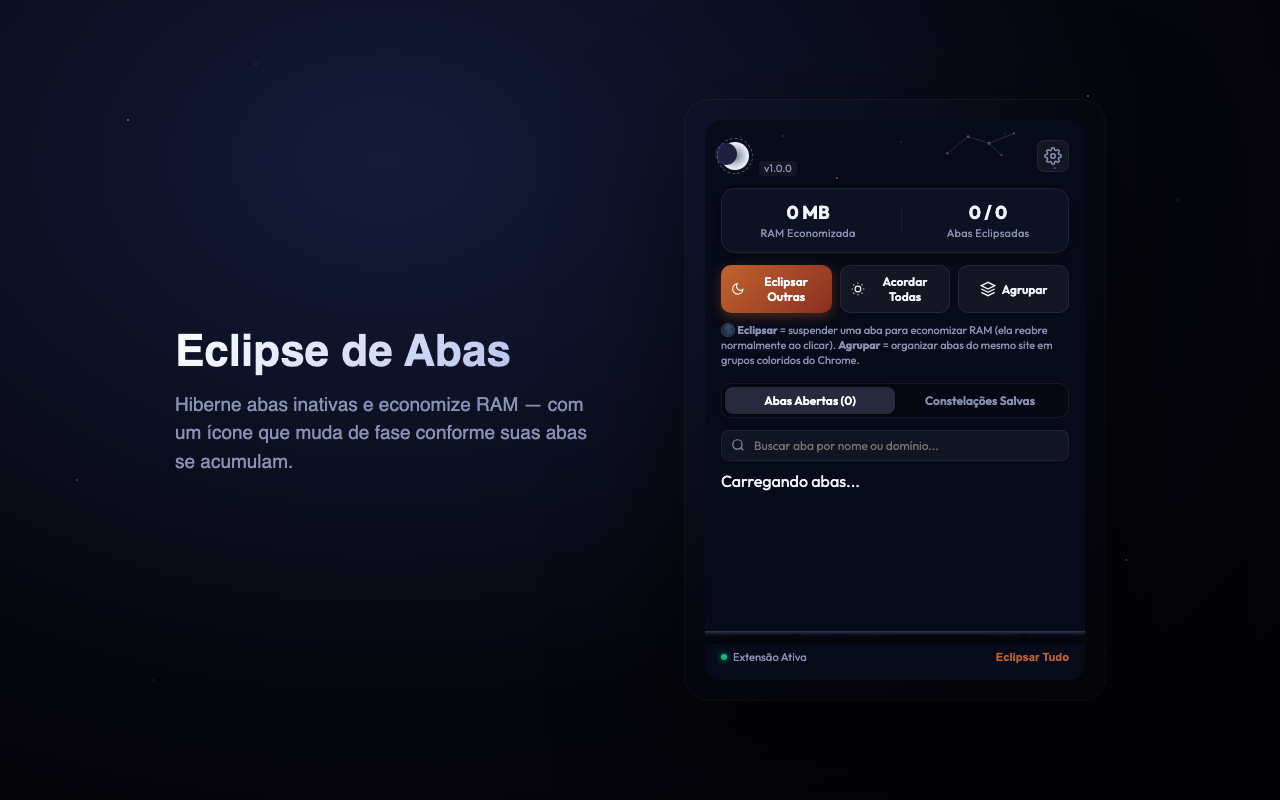
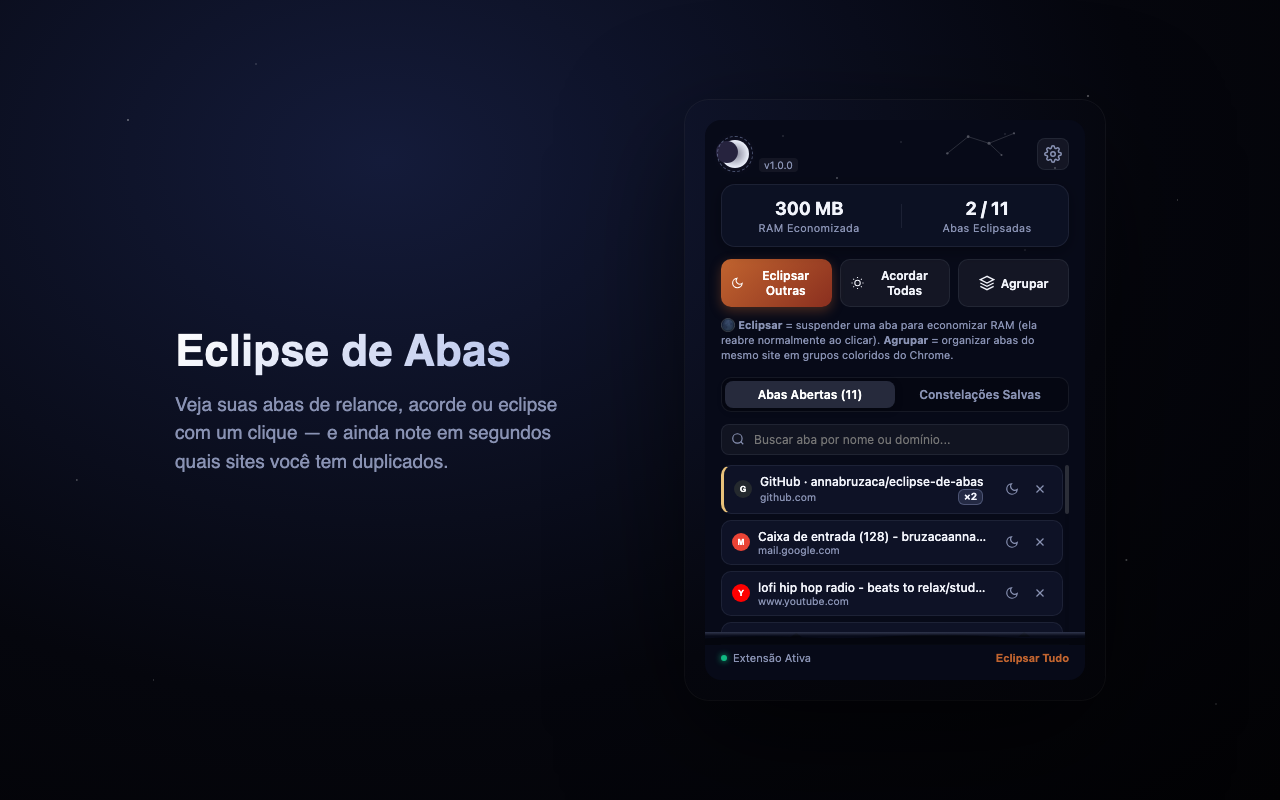
Adiciona os 5 screenshots para a Chrome Web Store
Popup com abas abertas, ícone em fase avançada de eclipse, Constelações
Salvas, tela de aba eclipsada e página de opções — todos em 1280x800,
prontos para o envio no dashboard de desenvolvedor.

diff --git a/store/CHROME_WEB_STORE.md b/store/CHROME_WEB_STORE.md
@@ -59,8 +59,15 @@ Português (Brasil) — principal. (Toda a interface está em pt-BR; se quiser a
 
 ## Screenshots
 
-- `store/screenshot-1-popup.png` (1280×800) — já gerado, mostra o popup principal.
-- A Chrome Web Store aceita até 5 imagens (1280×800 ou 640×400). Recomendo tirar mais 1–2 capturas reais do navegador em uso (com abas de verdade abertas, mostrando a lista de abas populada e a tela de aba eclipsada) para complementar — a gerada aqui usa um popup "vazio" porque foi renderizada fora do contexto de uma janela real do Chrome.
+Todas em 1280×800, prontas para upload (a Chrome Web Store aceita até 5, esse é o limite e já está no pacote):
+
+1. `store/screenshot-1-popup.png` — popup principal, lista de abas aberta, com o selo de abas duplicadas do mesmo domínio.
+2. `store/screenshot-2-icone-dinamico.png` — o mesmo popup com muitas abas abertas, mostrando o ícone/logo em fase avançada de eclipse (vermelho).
+3. `store/screenshot-3-constelacoes.png` — aba "Constelações Salvas", com sessões de abas salvas.
+4. `store/screenshot-4-aba-eclipsada.png` — tela de tela cheia mostrada quando uma aba é eclipsada.
+5. `store/screenshot-5-opcoes.png` — página de configurações.
+
+Os dados de abas/sessões nas imagens 1–3 são fictícios (gerados para a captura, não vêm de nenhum navegador real) — troque por capturas do seu próprio uso se preferir algo 100% autêntico, mas não é obrigatório.
 
 ## Ícone da loja
 
@@ -87,6 +94,6 @@ A Google exige uma justificativa curta para cada permissão "poderosa" na aba **
 ## Antes de enviar
 
 - [ ] Rodar `git log -1` e conferir que o `manifest.json` do zip bate com a versão publicada no GitHub.
-- [ ] Tirar 1–2 screenshots reais (não geradas) mostrando abas de verdade.
+- [ ] (Opcional) Trocar os 5 screenshots por capturas reais do seu uso, se quiser dados 100% autênticos em vez dos fictícios.
 - [ ] Revisar a descrição por erros de digitação.
 - [ ] Confirmar o e-mail de contato do desenvolvedor no dashboard.
